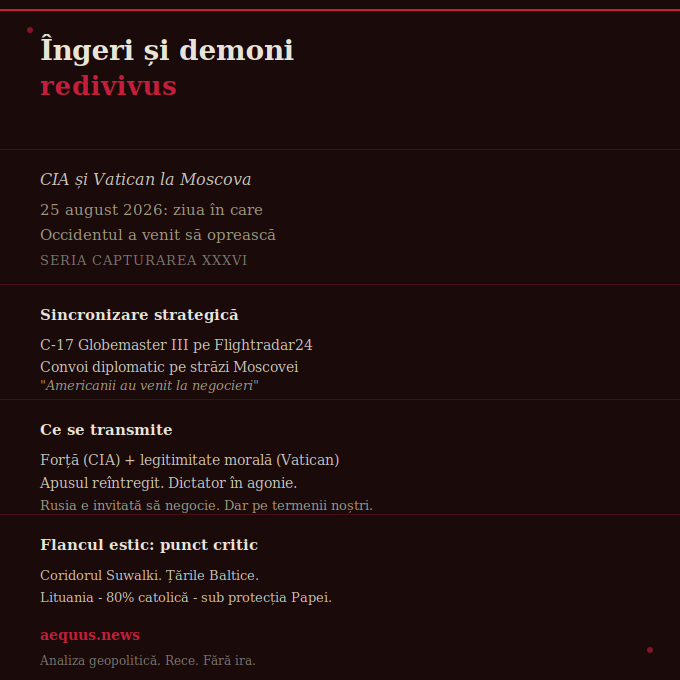
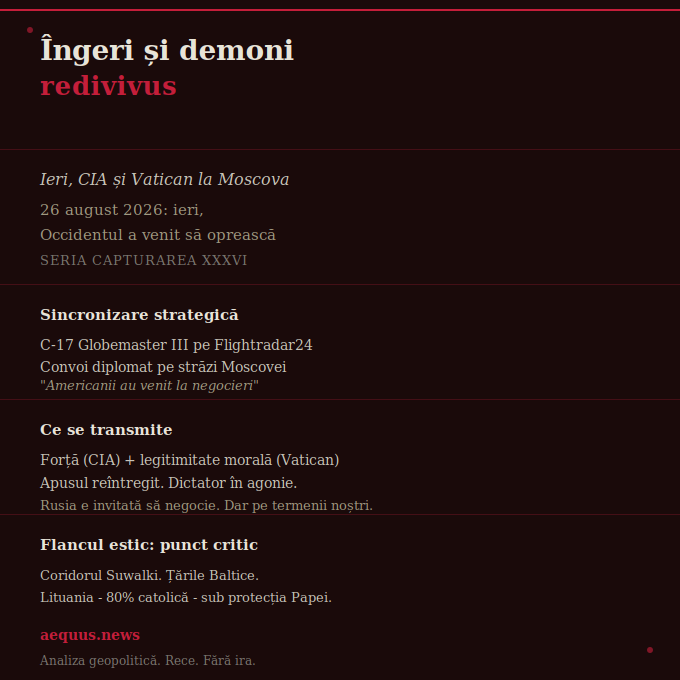
Add files via upload

Changed region(s): [[0.0618, 0.2471, 0.4324, 0.3397], [0.2162, 0.525, 0.4324, 0.5559]]

diff --git a/articles/angels-demons.html b/articles/angels-demons.html
@@ -3,11 +3,11 @@
 <head>
     <meta charset="UTF-8">
     <meta name="viewport" content="width=device-width, initial-scale=1.0">
-    <meta name="description" content="25 august 2026: CIA și Vatican la Moscova pentru a opri o escaladă a războiului. Analiza Seria Capturarea XXXVI.">
+    <meta name="description" content="26 august 2026: Ieri, CIA și Vatican au sosit urgent la Moscova pentru a opri o escaladă a războiului. Analiza Seria Capturarea XXXVI.">
     
     <!-- OG Tags -->
-    <meta property="og:title" content="Îngeri și demoni redivivus. 25 august 2026: ziua în care Occidentul a venit să oprească o escaladă a războiului">
-    <meta property="og:description" content="Ratcliffe și Vatican la Moscova. Planul rus pentru Țările Baltice. De ce Putin în agonie e o amenințare pentru planeta.">
+    <meta property="og:title" content="Îngeri și demoni redivivus. 26 august 2026: ieri, ziua în care Occidentul a venit să oprească o escaladă a războiului">
+    <meta property="og:description" content="Ieri, 25 august: CIA și Vatican la Moscova. Planul rus pentru Țările Baltice. De ce Putin în agonie e o amenințare pentru planeta.">
     <meta property="og:image" content="https://aequus.news/articles/card-angels-demons.png">
     <meta property="og:url" content="https://aequus.news/articles/angels-demons.html">
     <meta property="og:type" content="article">
@@ -132,12 +132,12 @@
                 <div class="article-meta">
                     <span class="article-category">Seria Capturarea XXXVI</span>
                     <span>Geopolitică</span>
-                    <span>25 august 2026</span>
+                    <span>26 august 2026</span>
                 </div>
                 
-                <h1>Îngeri și demoni redivivus. 25 august 2026: ziua în care Occidentul a venit să oprească o escaladă a războiului</h1>
+                <h1>Îngeri și demoni redivivus. 26 august 2026: ieri, ziua în care Occidentul a venit să oprească o escaladă a războiului</h1>
                 
-                <p class="article-subtitle">Dan Brown a anticipat. Tismăneanu a descifrat psihologia. Azi, CIA și Vatican sosesc urgent la Moscova pentru a opri un dictator în agonie să nu facă ceva catastrofal.</p>
+                <p class="article-subtitle">Dan Brown a anticipat. Tismăneanu a descifrat psihologia. Ieri, 25 august, CIA și Vatican au sosit urgent la Moscova pentru a opri un dictator în agonie să nu facă ceva catastrofal.</p>
             </header>
             
             <div class="article-content">
@@ -155,9 +155,9 @@
                 
                 <p>Ficțiunea a fost profetică. Azi, 25 august 2026, cartea a devenit realitate.</p>
                 
-                <h2>Ce se întâmplă de fapt la Moscova</h2>
+                <h2>Ce s-a întâmplat ieri la Moscova</h2>
                 
-                <p><span class="highlight">În aceeași zi, la Moscova se-ntâmplă ceva care nu s-ar fi putut întâmpla sub nici un alt președinte american decât Trump.</span></p>
+                <p><span class="highlight">Ieri, 25 august 2026, la Moscova s-a-ntâmplat ceva care nu s-ar fi putut întâmpla sub nici un alt președinte american decât Trump.</span></p>
                 
                 <p><strong>CIA Director John Ratcliffe</strong> sosește la Moscova cu un <strong>Boeing C-17 Globemaster III</strong> — avionul din flota militară de transport care îl transportă pe președintele SUA. Numărul de înregistrare: RCH4555. Ruta: Joint Base Andrews (Maryland, de unde decolează Air Force One) → Riga → Moscova Vnukovo. Data: 25 august 2026, dimineață. Detaliile sunt publice, urmărite în timp real pe Flightradar24. Aceasta nu-i clandestinitate. Este semnalizare deliberată.</p>
                 
@@ -257,7 +257,8 @@
             </div>
             
             <div class="timestamp">
-                <p><strong>Publicat:</strong> 25 august 2026</p>
+                <p><strong>Publicat:</strong> 26 august 2026</p>
+                <p><strong>Despre:</strong> 25 august 2026</p>
                 <p><strong>Categoria:</strong> Seria Capturarea XXXVI | Geopolitică | Flancul estic</p>
                 <p><strong>Surse verificate:</strong> CBS News (Jennifer Jacobs), Axios, Reuters, Armand Goșu, Vladimir Tismăneanu, Vatican News, Moscow Times, Washington Post</p>
                 <p><strong>Limba română:</strong> verificată și corectată conform standardelor. Diacritice corecte. Fără atribuiri directe neconfirmate.</p>
